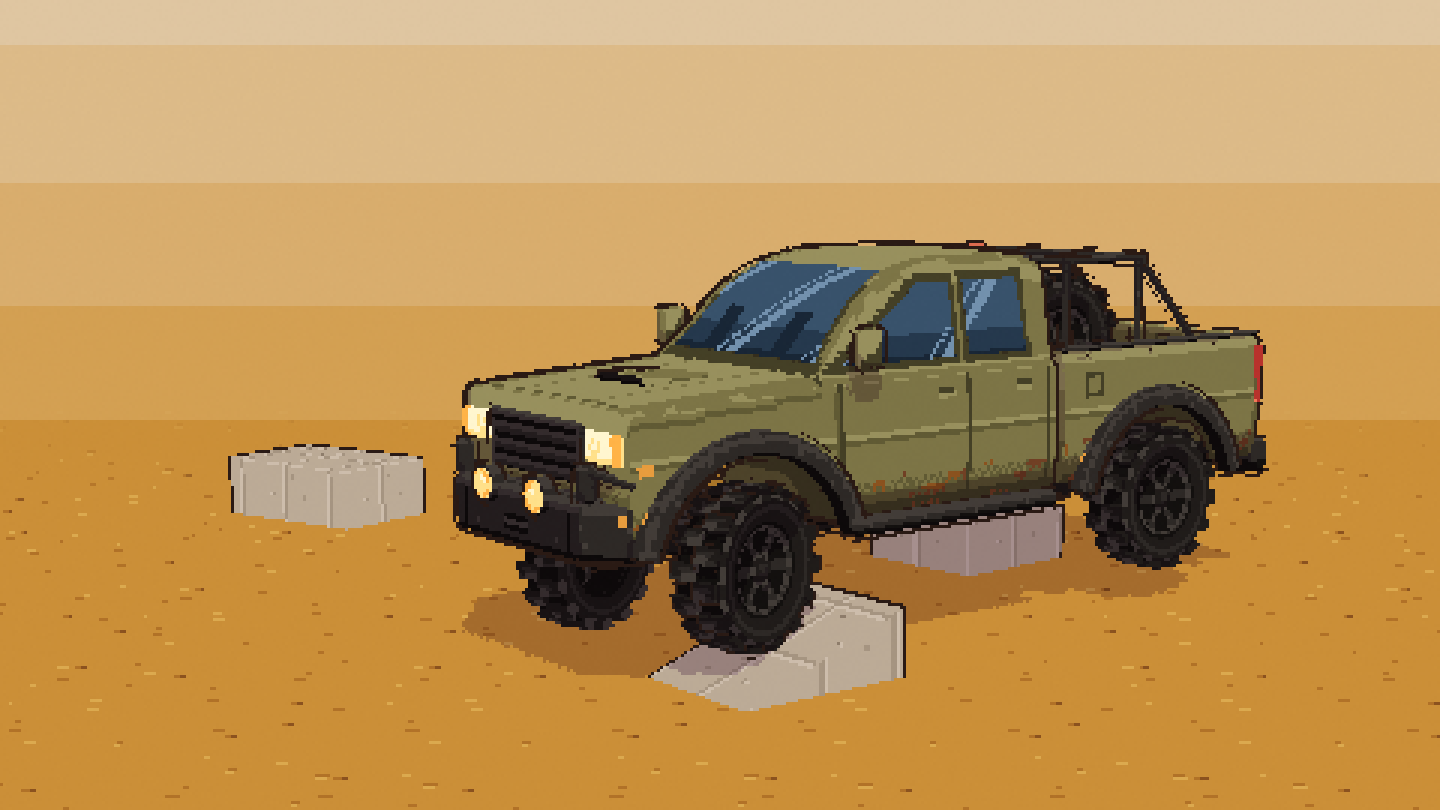
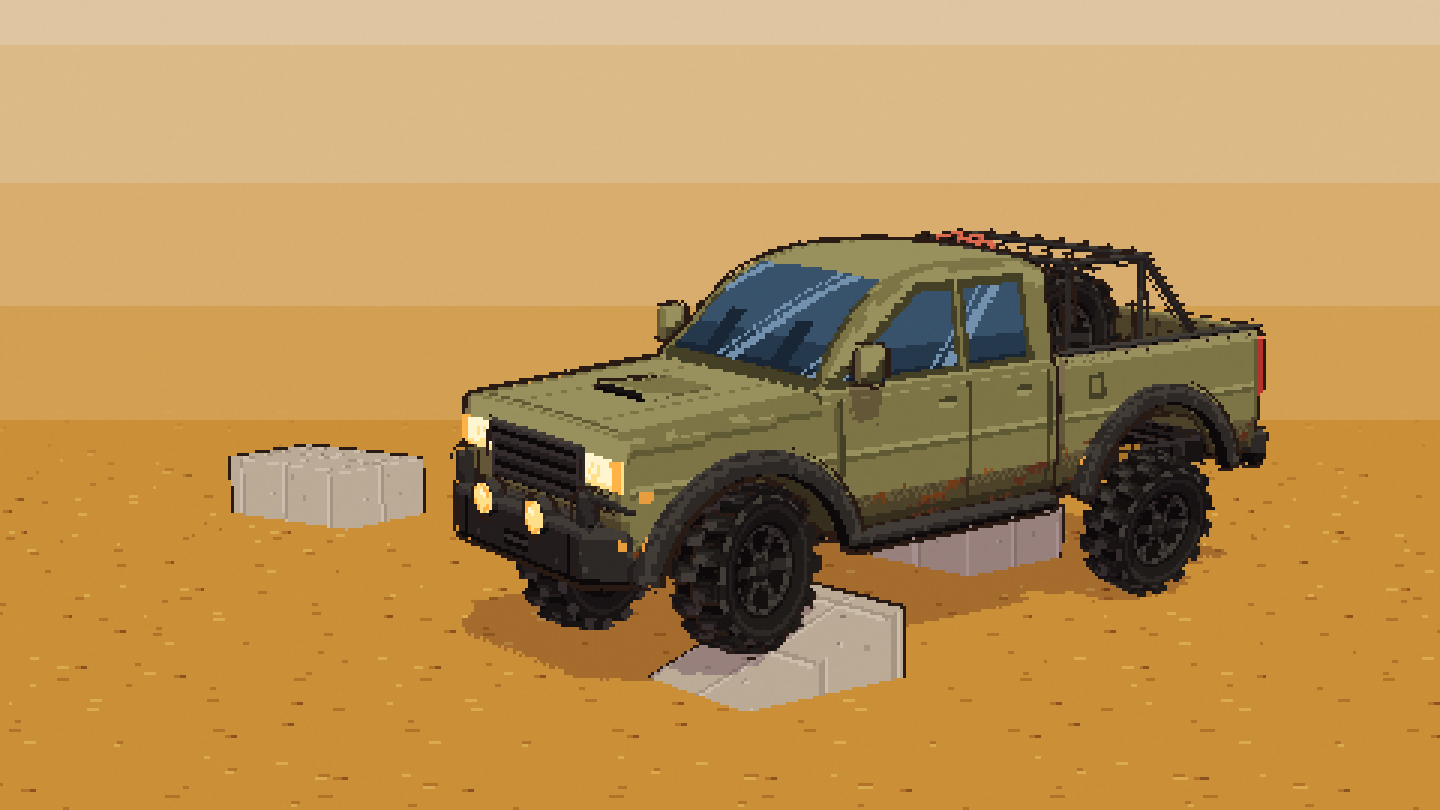
Loading screen art: flexed poses fixed in Blender (no tyre through the fender), settle strips animate for all three rigs
The glTF import left the bodies and axles in quaternion rotation mode, which ignored the scene's axle
tilt and body pitch / roll drivers. They now use XYZ, so the front axle tilts with one tyre on the
block and the other drooping, and the tyres no longer rise into the arches. The Cruiser's body sits
2 cm higher for arch clearance and is re-framed slightly. Camera, lighting and resolution are the
same. The render script now activates each scene before rendering it, so the Cruiser and Pickup
settle strips animate, and it no longer writes file metadata into the PNGs.

The re-saved art/blender/loading_screen.blend is not part of this commit: it embeds a local user path
in its saved file-browser state.

diff --git a/tools/blender/build_loading.py b/tools/blender/build_loading.py
@@ -43,14 +43,15 @@ T_MID, T_LIT = 0.42, 0.90
 #   ('cube', height)            block under the tyre, top at `height`
 #   ('wedge', lift, angle_deg)  tyre resting on a ramp; hub raised by `lift`
 #   ('kerb', radius)            tyre on the crest of a half-cylinder lying across the path
+# ride: optional body lift (m) over the axles, so a tucked tyre clears its arch through the whole settle loop.
 # props: extra set dressing, placed relative to the camera: (screen-right m, depth-behind-car m) from the target.
 # az/el: camera azimuth (deg from +Y towards +X) and elevation; dist in m; shift: camera lens shift.
 SHOTS = {
     'lc70': dict(
-        front='solid', rear='solid', steer=0.32,
+        front='solid', rear='solid', steer=0.32, ride=0.02,
         corners={'FL': ('cube', 0.56)},
         props=[('cube', (-4.3, 3.4), (0.9, 0.9, 0.9), 0.5), ('cube', (-3.3, 3.9), (0.55, 0.55, 0.55), 0.2)],
-        az=-46, el=8, dist=11.5, focal=50, target=(0.0, 0.1, 0.95), shift=(-0.11, 0.04), sun=(-58, 50)),
+        az=-46, el=8, dist=11.5, focal=50, target=(0.0, 0.1, 0.95), shift=(-0.11, 0.06), sun=(-58, 50)),
     'taco': dict(
         front='ifs', rear='solid', steer=0.28,
         corners={'FL': ('wedge', 0.17, 20), 'RR': ('cube', 0.36)},
@@ -453,6 +454,9 @@ def import_vehicle(vid):
     for o in objs.values():
         for c in list(o.users_collection):
             c.objects.unlink(o)
+        # glTF imports in QUATERNION mode, which would silently ignore the axle tilt and the body's
+        # pitch/roll drivers (all set on rotation_euler): the tyres then rose into the arches.
+        o.rotation_mode = 'XYZ'
     return objs
 
 
@@ -619,7 +623,7 @@ def build_scene(vid, shot):
     fv, fmean, froll = end_vars('front', ('FL', 'FR'))
     rv, rmean, rroll = end_vars('rear', ('RL', 'RR'))
     pv = [('sz', 'PROP', rig, '["settle_z"]'), ('sr', 'PROP', rig, '["settle_roll"]')]
-    drive(body, 'location', 2, f'{BZ - R:.4f}+({fmean}+{rmean})/2+sz', fv + rv + pv)
+    drive(body, 'location', 2, f'{BZ - R + shot.get("ride", 0.0):.4f}+({fmean}+{rmean})/2+sz', fv + rv + pv)
     drive(body, 'rotation_euler', 0, f'({fmean}-{rmean})/{WB:.4f}', fv + rv)
     drive(body, 'rotation_euler', 1, f'({froll}+{rroll})/2+sr', fv + rv + pv)
 

diff --git a/tools/blender/render_loading.py b/tools/blender/render_loading.py
@@ -41,6 +41,10 @@ def setup_render(sc):
         print('[render] view transform:', e)
     sc.view_settings.look = 'None'
     sc.render.fps = 8
+    # use_stamp only burns text in; the use_stamp_* fields still write File/Date/... into the PNG metadata
+    for k in dir(sc.render):
+        if k.startswith('use_stamp'):
+            setattr(sc.render, k, False)
 
 
 def read_png(path):
@@ -70,6 +74,10 @@ def render_frame(sc, frame, path):
 
 def render_scene(sc):
     vid = sc.name.split('_', 1)[1]
+    # frame_set only re-evaluates the animation of the window's scene: without this every scene but the
+    # active one rendered 8 identical settle frames
+    if bpy.context.window is not None:
+        bpy.context.window.scene = sc
     setup_render(sc)
     os.makedirs(OUT, exist_ok=True)
     os.makedirs(TMP, exist_ok=True)
